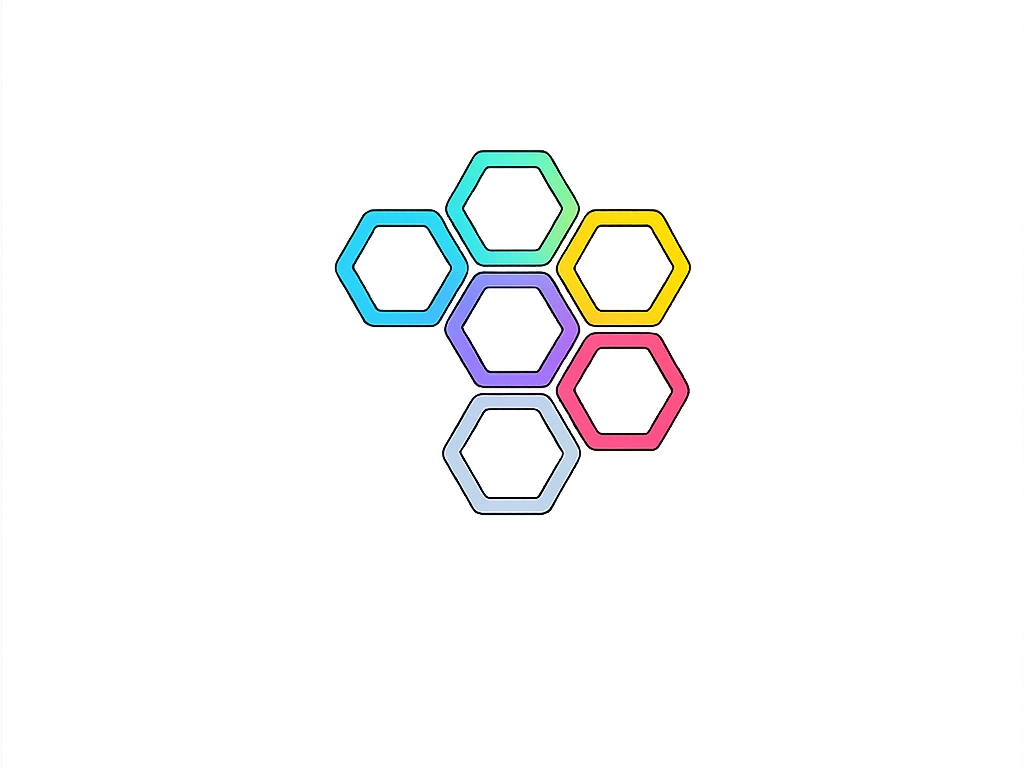
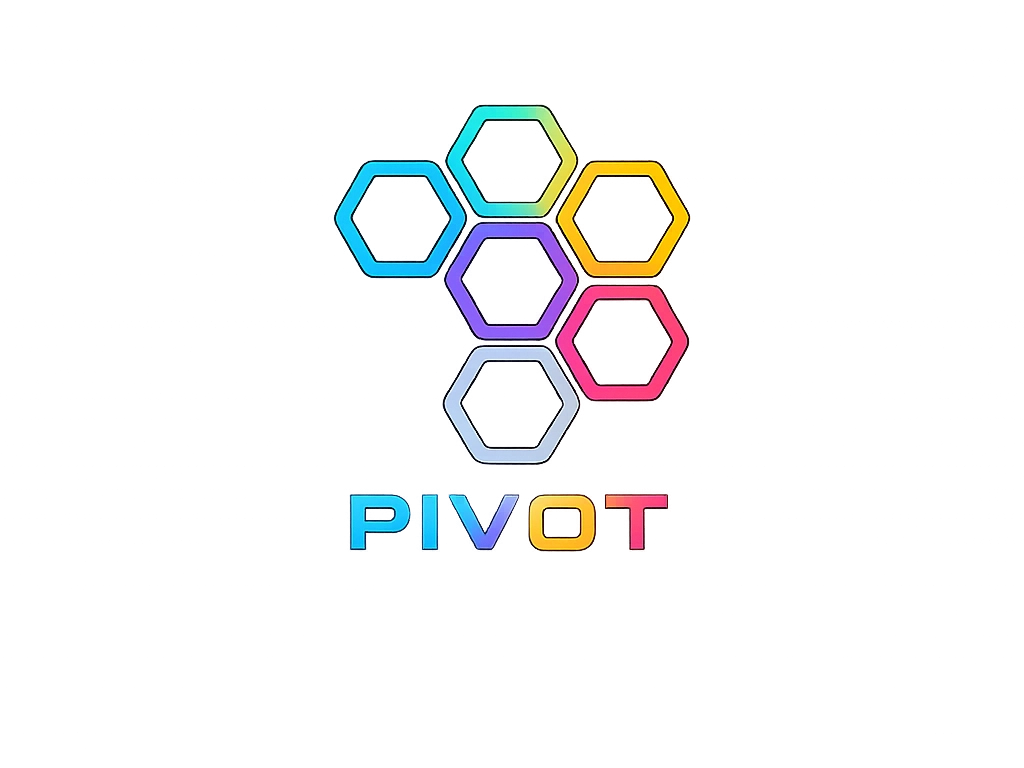
style(brand): PIVOT_logo_single webp+png, cache-bust v4; fix console 401 on auth pages
- Replace pivot-icon with PIVOT_logo_single (hexagones + texte PIVOT coloré)
- Skip POST /auth/refresh on /auth/* routes — supprime le 401 console au chargement login

Changed region(s): [[0.3125, 0.125, 0.6875, 0.7188]]

diff --git a/src/app/app.config.ts b/src/app/app.config.ts
@@ -19,7 +19,13 @@ function detectInitialLang(): string {
 }
 
 function initSession(auth: AuthService) {
-  return () => auth.initSession().pipe(catchError(() => of(null)));
+  return () => {
+    // Sur les pages /auth/*, aucune session n'existe — évite un POST /refresh → 401 inutile en console.
+    if (window.location.pathname.startsWith('/auth')) {
+      return of(null);
+    }
+    return auth.initSession().pipe(catchError(() => of(null)));
+  };
 }
 
 export const appConfig: ApplicationConfig = {

diff --git a/src/app/features/auth/pages/login/login.component.html b/src/app/features/auth/pages/login/login.component.html
@@ -2,8 +2,8 @@
   <div class="card auth-card">
     <div class="auth-brand">
       <picture>
-        <source srcset="assets/brand/pivot-icon.webp?v=3" type="image/webp" />
-        <img src="assets/brand/pivot-icon.png?v=3" alt="PIVOT" class="auth-brand-icon" />
+        <source srcset="assets/brand/pivot-icon.webp?v=4" type="image/webp" />
+        <img src="assets/brand/pivot-icon.png?v=4" alt="PIVOT" class="auth-brand-icon" />
       </picture>
     </div>
     <h1 class="auth-title">{{ 'auth.login.title' | transloco }}</h1>

diff --git a/src/app/features/auth/pages/register/register.component.html b/src/app/features/auth/pages/register/register.component.html
@@ -2,8 +2,8 @@
   <div class="card auth-card">
     <div class="auth-brand">
       <picture>
-        <source srcset="assets/brand/pivot-icon.webp?v=3" type="image/webp" />
-        <img src="assets/brand/pivot-icon.png?v=3" alt="PIVOT" class="auth-brand-icon" />
+        <source srcset="assets/brand/pivot-icon.webp?v=4" type="image/webp" />
+        <img src="assets/brand/pivot-icon.png?v=4" alt="PIVOT" class="auth-brand-icon" />
       </picture>
     </div>
 

diff --git a/src/app/features/auth/pages/resend-verification/resend-verification.component.ts b/src/app/features/auth/pages/resend-verification/resend-verification.component.ts
@@ -15,8 +15,8 @@ import { HttpErrorResponse } from '@angular/common/http';
       <div class="card auth-card">
         <div class="auth-brand">
           <picture>
-            <source srcset="assets/brand/pivot-icon.webp?v=3" type="image/webp" />
-            <img src="assets/brand/pivot-icon.png?v=3" alt="PIVOT" class="auth-brand-icon" />
+            <source srcset="assets/brand/pivot-icon.webp?v=4" type="image/webp" />
+            <img src="assets/brand/pivot-icon.png?v=4" alt="PIVOT" class="auth-brand-icon" />
           </picture>
         </div>
 